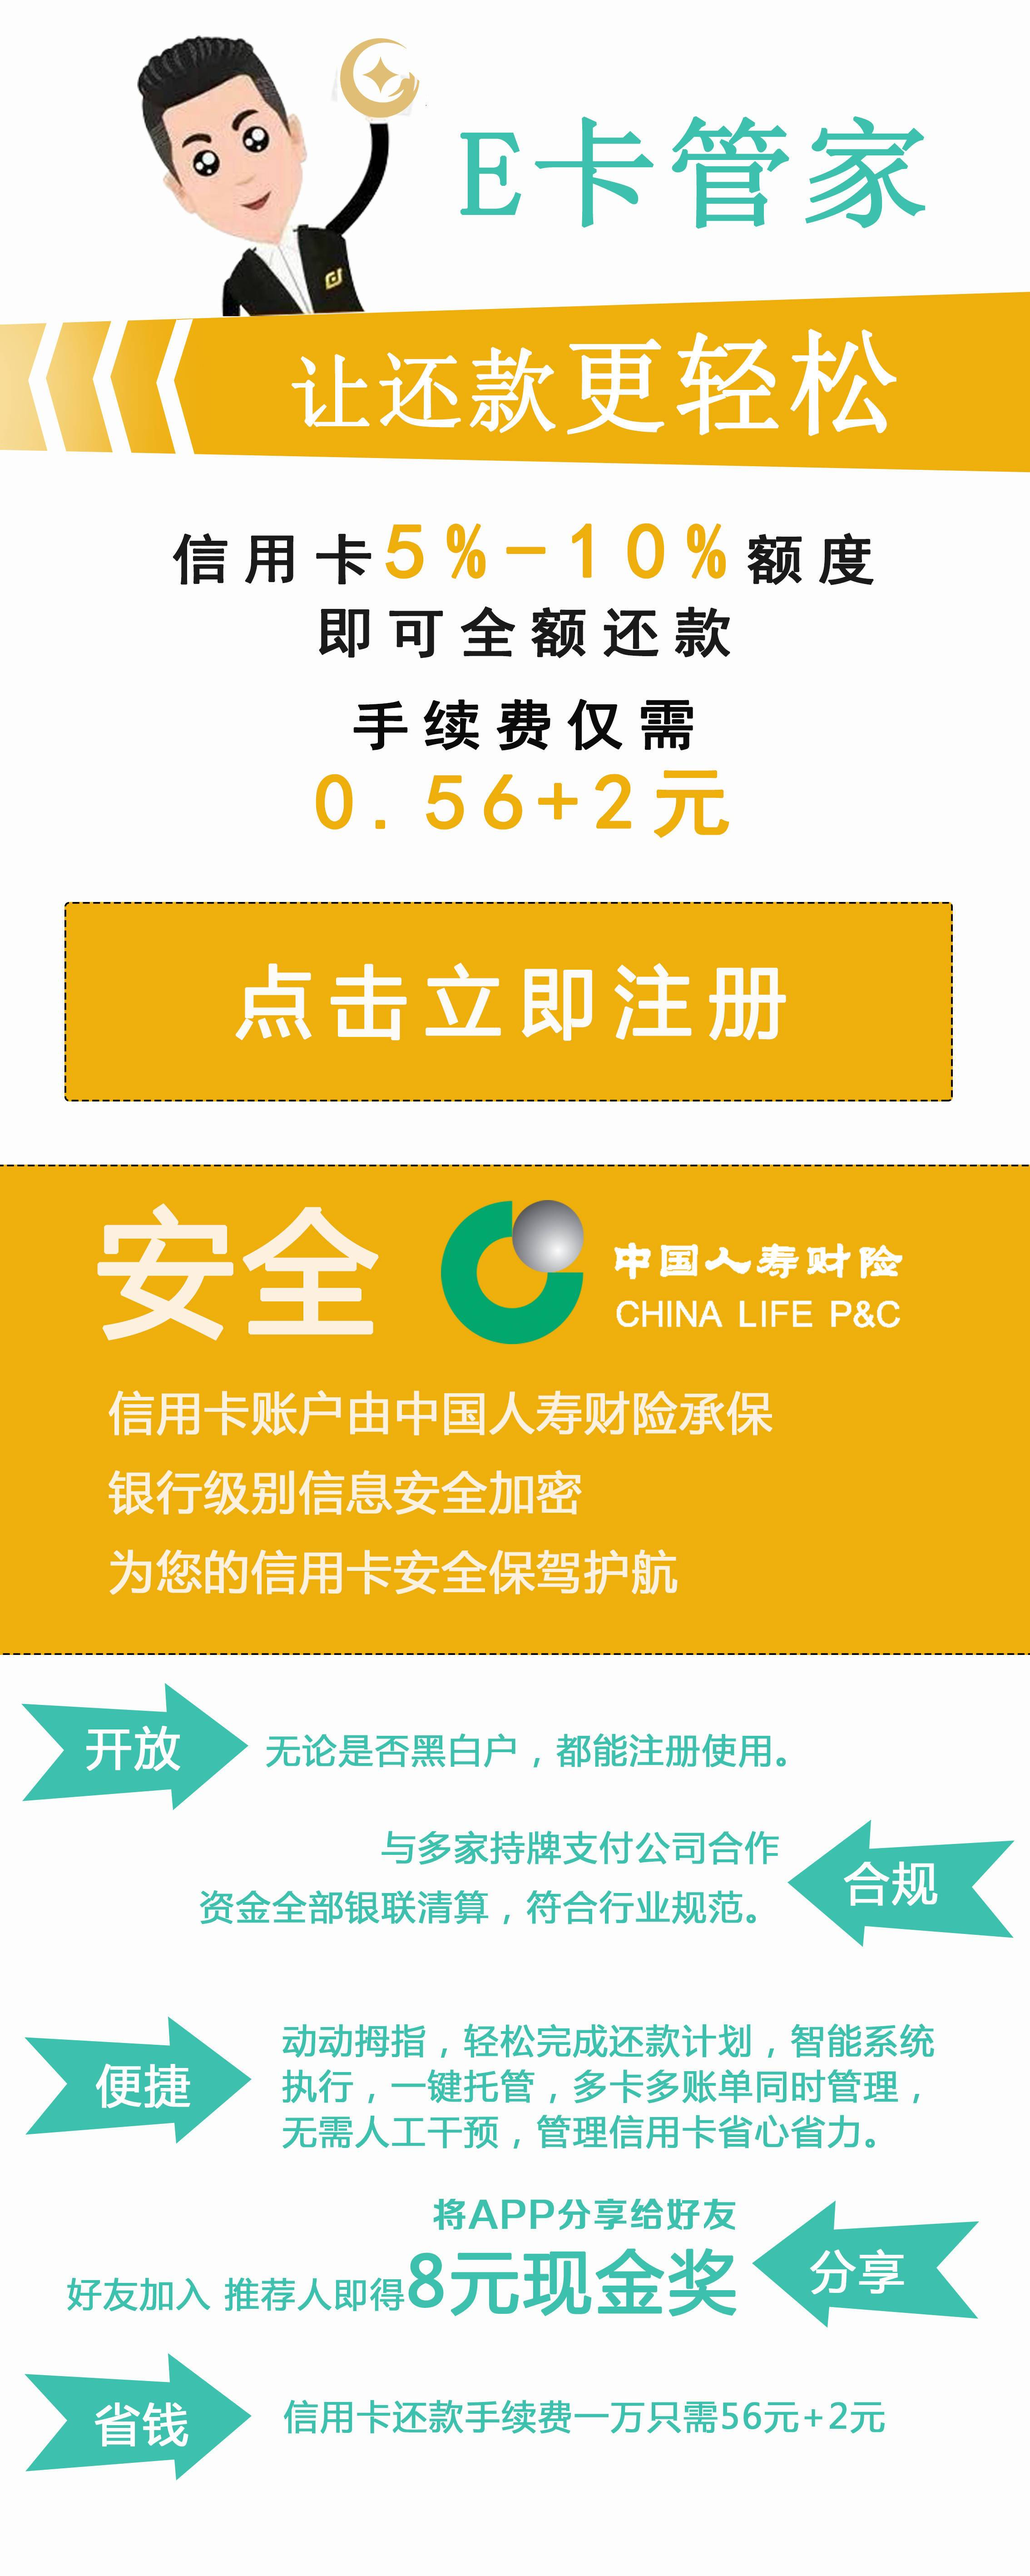
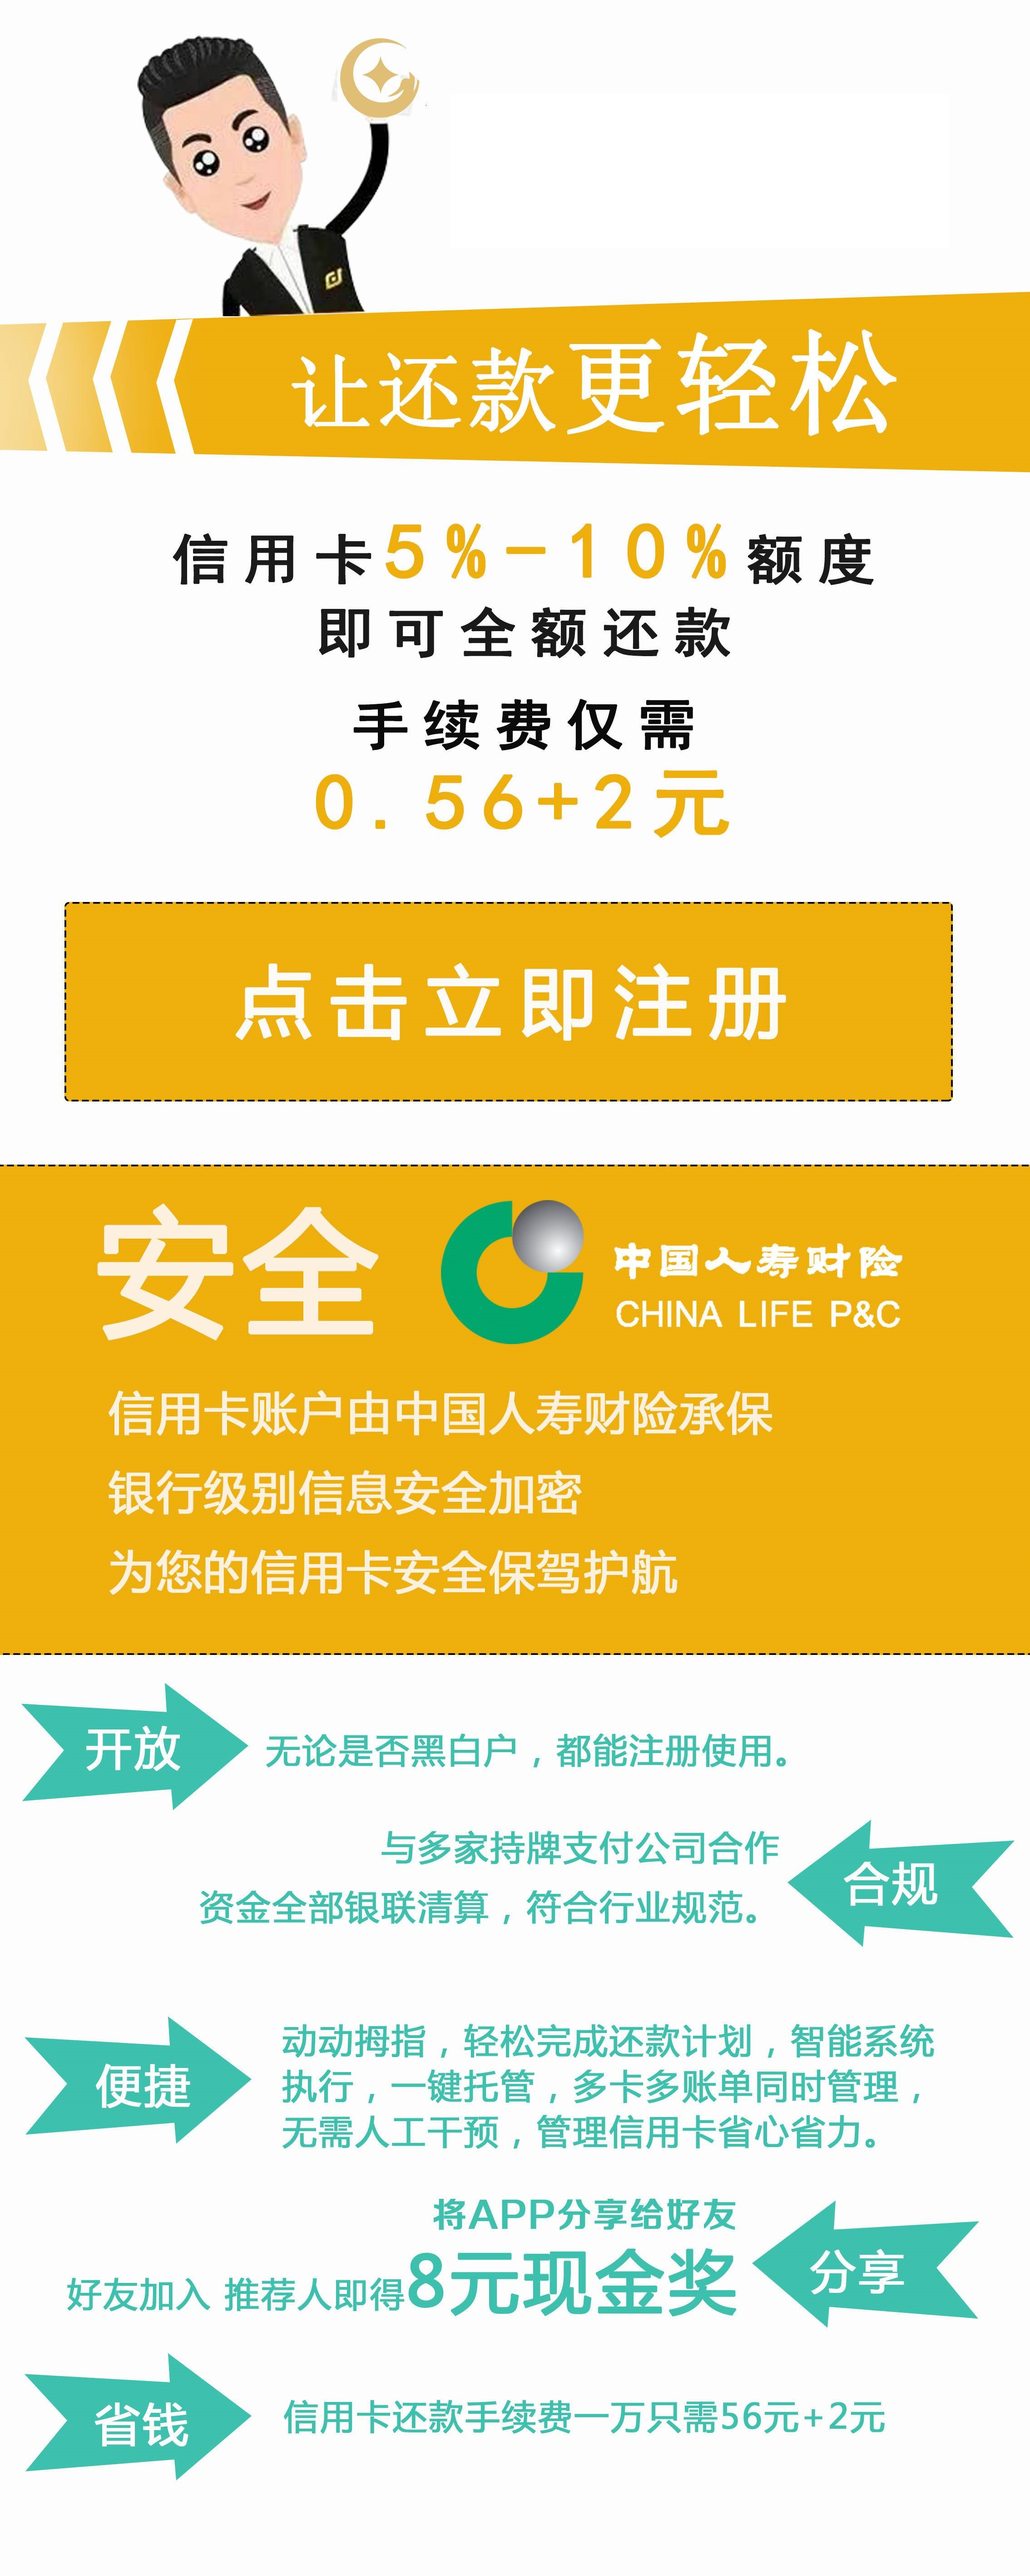
test0516-02

diff --git a/index.html b/index.html
@@ -15,6 +15,15 @@
         .image{
             width: 100%;
         }
+        .title{
+            position: absolute;
+            top: 4%;
+            left: 43%;
+            font-size: 42px;
+            font-family: monospace;
+            font-weight: bold;
+            letter-spacing: 8px;
+        }
         .btn{
             width: 90%;
             position: absolute;
@@ -50,6 +59,7 @@
 <body>
 <div class="content">
     <img src="eCard.jpg" class="image">
+    <div class="title">E卡管家</div>
     <button class="btn">点击注册
         <a class="jump" href="http://guiyin.yahugou.com/ygww/repayment/repay.do?sysName=smskt&UID=6950214116414267"></a>
     </button>
